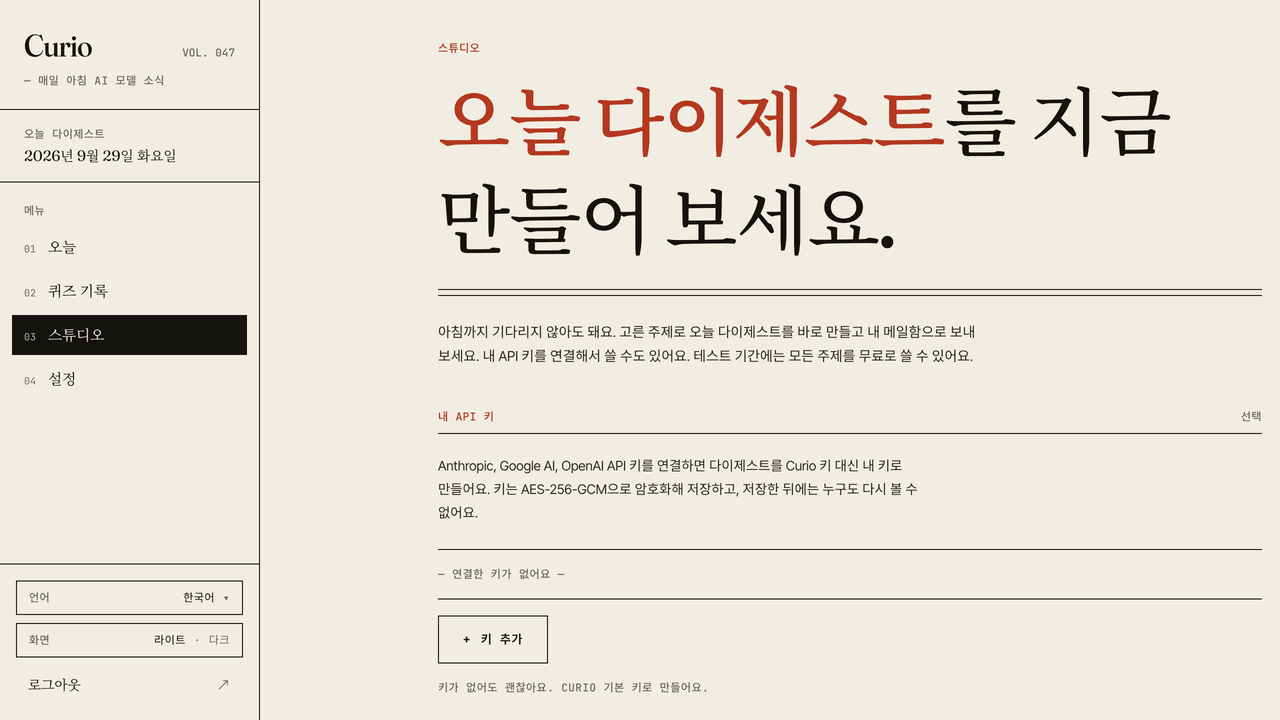
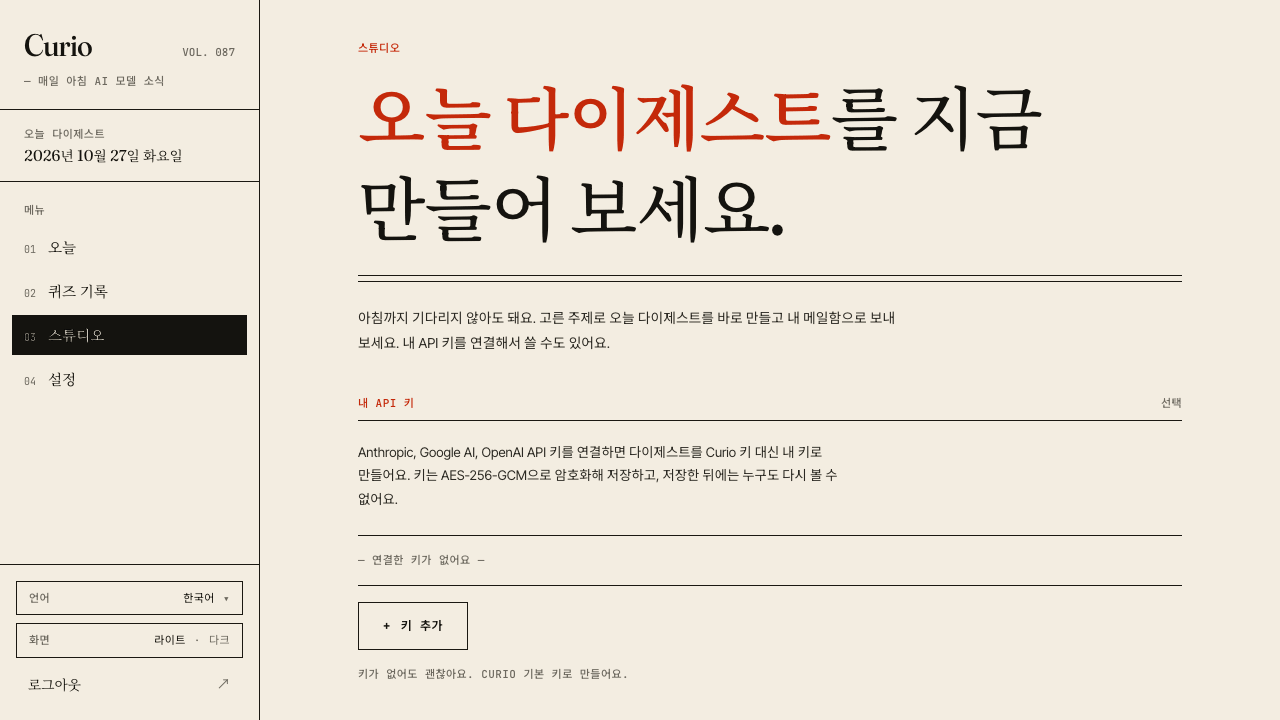
docs: refresh README screenshots and document the new UI
- Recapture all 15 README images (EN + KO) from the current UI with every API call stubbed (sample data only); quiz GIFs now end on the answer review
- READMEs: add the editorial reading-experience feature, update quiz GIF alt text
- docs/README, CODEBASE inventory (useScrollNav, useVolume, ScrollWords, apiDate, test counts) and frontend README conventions

diff --git a/docs/CODEBASE.md b/docs/CODEBASE.md
@@ -223,7 +223,7 @@ curio/
 │       ├── services/
 │       │   ├── api.ts               # Single Axios client + all endpoint methods
 │       │   └── sentry.ts            # Optional Sentry init (VITE_SENTRY_DSN)
-│       ├── utils/                   # apiError.ts, safeUrl.ts, timezone.ts
+│       ├── utils/                   # apiDate.ts (parseApiDate: zone-less API date-times = UTC), apiError.ts, safeUrl.ts, timezone.ts
 │       ├── composables/
 │       │   ├── useDisclosureSet.ts  # Open/closed set for accordions and filters (toggle/isOpen), shared by three pickers
 │       │   ├── useEnsureTimezone.ts # Device-timezone auto-follow (wired in DashboardLayout)
@@ -233,14 +233,16 @@ curio/
 │       │   ├── useLocale.ts         # Edition (en/ko) state: persist on explicit choice, <html lang>, document.title
 │       │   ├── usePagedAdminList.ts # load(page) + page envelope shared by the admin roster/ledger/editions tables
 │       │   ├── usePoller.ts         # Non-overlapping poll loop with attempt/failure caps (Studio + admin job status)
+│       │   ├── useScrollNav.ts      # Sticky nav state: stuck (hairline + blur), hidden while scrolling down, reading progress
 │       │   ├── useTheme.ts          # Light/dark theme toggle
 │       │   ├── useTopicLabels.ts    # Localized labels for the topic taxonomy (names stay canonical)
 │       │   ├── useTopicSelection.ts # Beat-picker state shared by onboarding and Settings
-│       │   └── useToast.ts
+│       │   ├── useToast.ts
+│       │   └── useVolume.ts         # Edition number (Vol.) counted from the 1 Aug 2026 launch, shared by every masthead
 │       ├── types/                   # user.ts, news.ts, quiz.ts, studio.ts, admin.ts, page.ts (SpringPage<T>), google-identity.d.ts
 │       ├── components/
 │       │   ├── ui/                  # BaseButton, BaseInput, BaseModal, BaseSpinner, ToastContainer, AppIcon, LanguageSelect,
-│       │   │                        # PageMasthead, ErrorState, PagerNav, SegmentedControl
+│       │   │                        # PageMasthead, ErrorState, PagerNav, SegmentedControl, ScrollWords
 │       │   ├── auth/                # LoginForm, RegisterForm, AuthMasthead, AuthColophon, MailSentPanel
 │       │   ├── layout/              # DashboardLayout, DashboardMenu, DashboardMenuFoot, LegalLayout
 │       │   ├── archive/             # ArchiveSearch, BeatFilter, DigestIssue
@@ -800,7 +802,7 @@ All 37 frontend API calls (across the `auth`, `user`, `apiKeys`, `news`, `quiz`,
 
 ### Components
 
-**UI (11):** `BaseButton`, `BaseInput`, `BaseModal`, `BaseSpinner`, `ToastContainer`, `AppIcon` (inline stroke SVG icons; 8 names, every one rendered somewhere), `LanguageSelect` (edition dropdown — a native `<select>` overlaid invisibly on a styled label; `inline` variant for mastheads/footers, shrinking to the EN / KO code below `sm`, `row` variant for the sidebar foot), `PageMasthead` (kicker + `<i18n-t>` headline with an emphasised word; `display`/`compact` sizes), `ErrorState` (kicker/headline/body + retry), `PagerNav` (newer/older pager; `counterKeypath` picks the "page X of Y" copy so admin and archive share it), `SegmentedControl` (`defineModel` radiogroup with one `label`, used by the Settings theme picker)
+**UI (12):** `BaseButton`, `BaseInput`, `BaseModal`, `BaseSpinner`, `ToastContainer`, `AppIcon` (inline stroke SVG icons; 8 names, every one rendered somewhere), `LanguageSelect` (edition dropdown — a native `<select>` overlaid invisibly on a styled label; `inline` variant for mastheads/footers, shrinking to the EN / KO code below `sm`, `row` variant for the sidebar foot), `PageMasthead` (kicker + `<i18n-t>` headline with an emphasised word; `display`/`compact` sizes), `ErrorState` (kicker/headline/body + retry), `PagerNav` (newer/older pager; `counterKeypath` picks the "page X of Y" copy so admin and archive share it), `SegmentedControl` (`defineModel` radiogroup with one `label`, used by the Settings theme picker), `ScrollWords` (paragraph whose words ink in as it scrolls through the viewport; screen readers get the sentence once; off under reduced motion)
 
 **Auth (5):** `LoginForm`, `RegisterForm`, `AuthMasthead` (shared auth-page header with the edition link), `AuthColophon` (the dated ink-aside row under the auth forms), `MailSentPanel` ("check your inbox" state for reset/verify)
 
@@ -836,6 +838,8 @@ All 37 frontend API calls (across the `auth`, `user`, `apiKeys`, `news`, `quiz`,
 | `usePoller()` | Active | `{ start, stop, active }` around an async `tick(isCurrent)`; the next tick is armed only after the previous response lands, with `maxAttempts` / `maxConsecutiveFailures` caps. Studio status and admin job status. |
 | `usePagedAdminList()` | Active | `load(page)` + `{ rows, page, totalPages, loading, error }` for the admin users/digests/audit tables; each view supplies its `fetcher`. |
 | `useTopicSelection()` | Active | Chosen leaf topics, unfolded L1 domains and per-group counts for the beat picker (onboarding + Settings). |
+| `useScrollNav(bar)` | Active | `{ scrolled, hidden, progress }` for a `.nav-glass` sticky bar: `scrolled` once stuck (frosted fill + hairline), `hidden` while scrolling down past `hideAfter` (never under reduced motion or with focus inside), `progress` 0→1 for the reading bar. Home, legal and dashboard mobile headers. |
+| `useVolume()` | Active | `{ volumeLabel, nextVolumeLabel }` — zero-padded edition number counted from the 1 Aug 2026 launch; home, auth and dashboard mastheads. |
 
 ### Internationalization (i18n)
 
@@ -1003,14 +1007,14 @@ The full variable reference (what each var is, why it's needed, prod-required vs
 
 ### Frontend Test Inventory
 
-**Unit tests (Vitest): 42 test files / 214 tests** in `src/__tests__/` (as of 2026-09-17)
-- Components: BaseButton, BaseInput, BaseModal, LoginForm, RegisterForm, QuizQuestion, QuizResults, LanguageSelect, PageMasthead, ErrorState, PagerNav, SegmentedControl, AuthMasthead, AuthColophon, DashboardLayout, DashboardMenu, ArchiveSearch, BeatFilter, DigestIssue, TaskProgress, JobCard
+**Unit tests (Vitest): 46 test files / 226 tests** in `src/__tests__/` (as of 2026-10-27; `vitest.config.ts` pins `TZ=UTC`)
+- Components: BaseButton, BaseInput, BaseModal, LoginForm, RegisterForm, QuizQuestion, QuizResults, LanguageSelect, PageMasthead, ErrorState, PagerNav, SegmentedControl, AuthMasthead, AuthColophon, DashboardLayout, DashboardMenu, ArchiveSearch, BeatFilter, DigestIssue, TaskProgress, JobCard, ScrollWords
 - Views (both editions — each mounts in English, switches to Korean, asserts translated copy and unchanged English): HomeView, LoginView, ArchiveView, SettingsView, StatsView, LegalViews, StudioView, AdminDashboardView
 - Stores: Pinia store tests (auth, user, news, quiz)
-- Composables / i18n: `useToast`, `useTopicLabels`, `useFormat`, `usePoller`, `usePagedAdminList`, `useTopicSelection`, `useDisclosureSet`, `useLocale` + catalog key-tree parity (every key in `en` exists in `ko` and vice versa)
-- Utils: `safeUrl`
+- Composables / i18n: `useToast`, `useTopicLabels`, `useFormat`, `usePoller`, `usePagedAdminList`, `useTopicSelection`, `useDisclosureSet`, `useScrollNav`, `useVolume`, `useLocale` + catalog key-tree parity (every key in `en` exists in `ko` and vice versa)
+- Utils: `safeUrl`, `apiDate`
 
-**E2E tests (Cypress): 10 spec files / 67 tests** (as of 2026-09-17; `tests/e2e/support.ts` pins the edition to English before boot)
+**E2E tests (Cypress): 10 spec files / 67 tests** (as of 2026-10-27; `tests/e2e/support.ts` pins the edition to English before boot)
 
 Session mocking is centralized in `tests/e2e/helpers.ts`: the app keeps the access token in memory and re-establishes sessions via a silent `POST /auth/refresh`, so specs seed the localStorage `user` (`withAuth()`) and stub the refresh call (`stubSession()`) — **never seed localStorage tokens**.
 

diff --git a/README.md b/README.md
@@ -14,7 +14,7 @@ Curio reads first-party lab blogs (Anthropic, OpenAI, DeepMind, Meta AI, Mistral
 2. **Read the morning edition** — up to 8 stories, each a headline, a 50–80 word TL;DR, and "why it matters", on the web and by email.
 3. **Take the quiz** — five questions on today's issue, graded instantly with explanations.
 
-![Taking a quiz: answer five questions, then see the score and explanations](docs/screenshots/quiz-flow.gif)
+![Taking a quiz: answer five questions, see the score, then review each answer with its explanation](docs/screenshots/quiz-flow.gif)
 
 ## Screens
 
@@ -37,6 +37,7 @@ Curio reads first-party lab blogs (Anthropic, OpenAI, DeepMind, Meta AI, Mistral
 - **Digest Studio** — generate today's digest and send the email yourself, with live progress.
 - **Newsroom dashboard** — readers, digests, topic stats, scheduled-job status with manual triggers, audit log.
 - **Secure sign-in** — email + password with an emailed 6-digit code, or Google.
+- **Editorial reading experience** — a newspaper-style layout in light and dark, a scroll-aware top bar (hairline once you scroll, out of the way while you read down), headlines that wipe into view and copy that inks in word by word. All motion switches off under your device's reduced-motion setting.
 
 ## Tech stack
 

diff --git a/docs/README.md b/docs/README.md
@@ -11,7 +11,7 @@ Public documentation for the Curio project. For a product overview and quick sta
 | [CODEBASE.md](CODEBASE.md) | Whole-codebase map — packages, classes, routes, migrations, tests |
 | [DEPLOY.md](DEPLOY.md) | Generic production deployment guide (Docker Compose, TLS, backups) |
 | [architecture/](architecture/) | ADR-001: the hexagonal architecture decision record |
-| [screenshots/](screenshots/) | README screenshots and the quiz GIF (captured with Cypress against stubbed APIs); `ko/` holds the Korean-edition set used by `README.ko.md` |
+| [screenshots/](screenshots/) | README screenshots and the quiz GIF (captured from the dev frontend with every API call stubbed — sample data only; refreshed 2026-10-27); `ko/` holds the Korean-edition set used by `README.ko.md` |
 
 Component-level READMEs: [backend/README.md](../backend/README.md), [frontend/README.md](../frontend/README.md).
 

diff --git a/frontend/README.md b/frontend/README.md
@@ -47,7 +47,8 @@ src/
 ## Conventions
 
 - **Every user-facing string goes through i18n.** Add each key to both `locales/en` and `locales/ko` — a parity test fails otherwise.
-- **Dates and numbers** go through `useFormat`; **polling** through `usePoller`.
+- **Dates and numbers** go through `useFormat` (API timestamps are parsed by `utils/apiDate.ts` — zone-less means UTC); **polling** through `usePoller`; **sticky nav bars** through `useScrollNav`.
+- **Motion** uses the primitives in `assets/styles/main.css` (`.rise-mask`, `[data-reveal]`, `ScrollWords`, `.stagger-rise`, `.parallax`). Each has a `prefers-reduced-motion` off-switch — give anything new one too.
 - **No emoji** in the UI — use `AppIcon.vue`.
 - **E2E sessions** are mocked with `tests/e2e/helpers.ts` (`withAuth()` + `stubSession()`); never seed tokens in localStorage.
 
